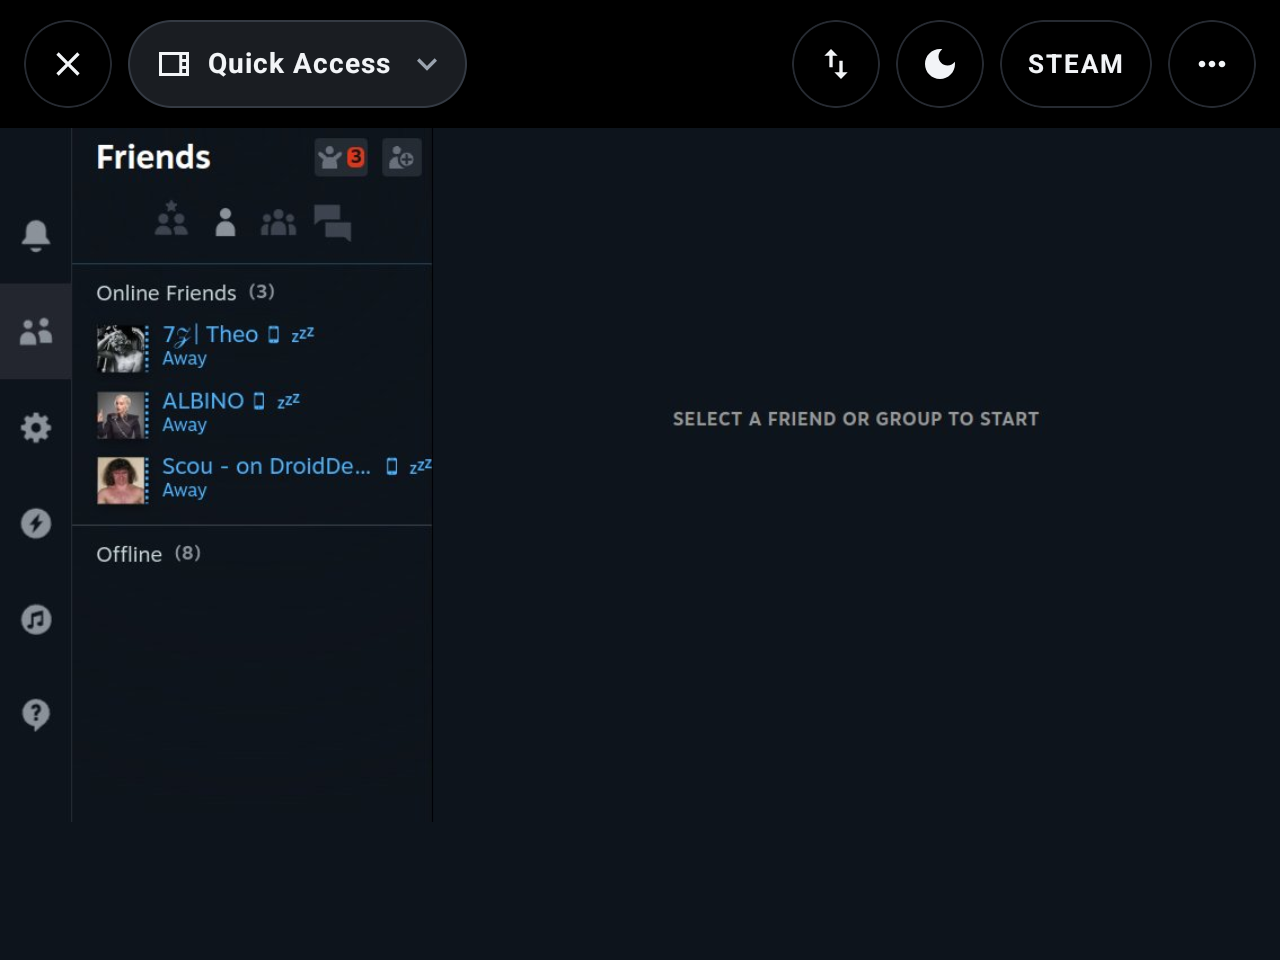
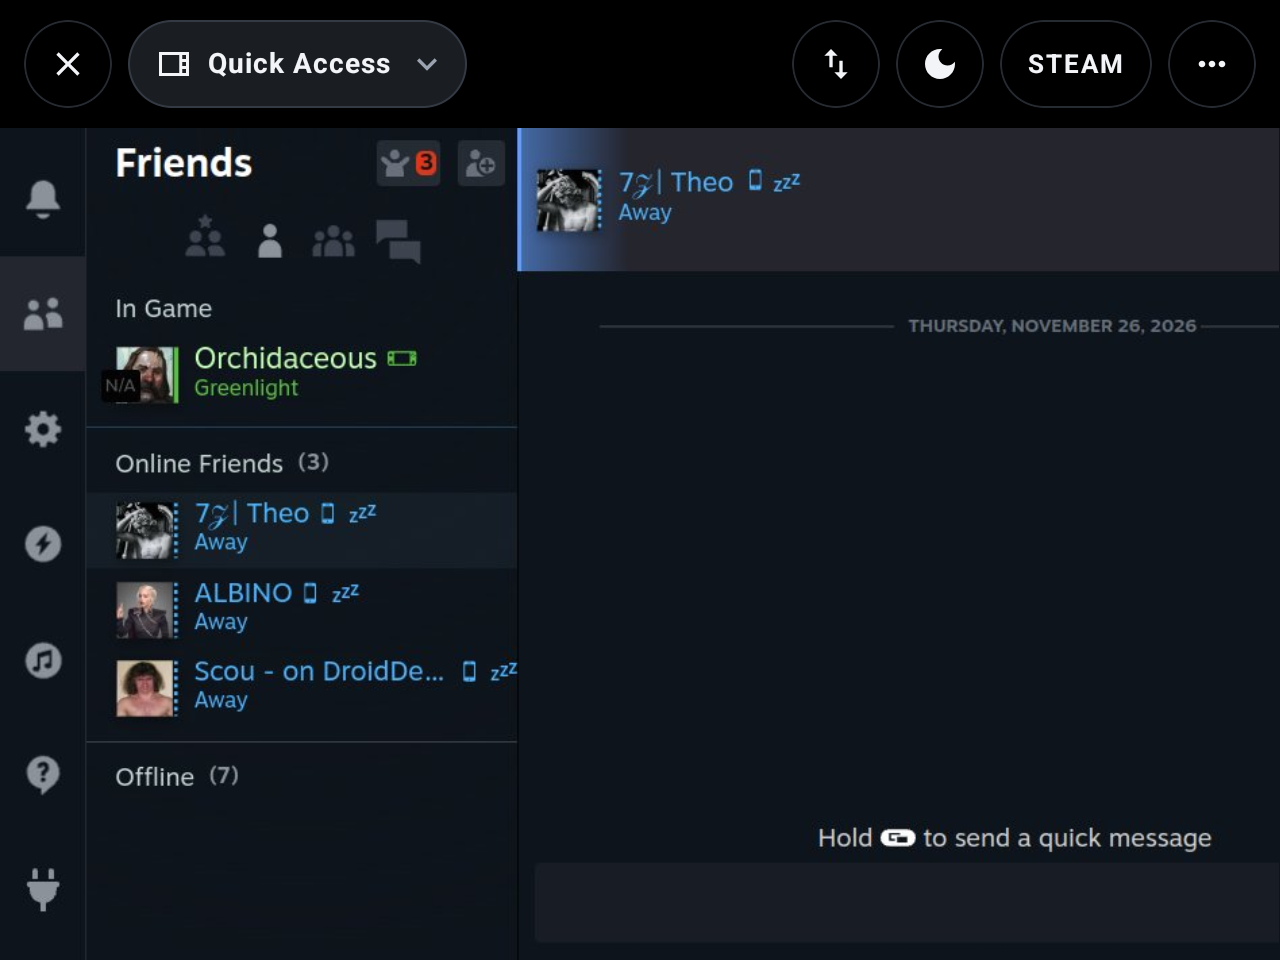
fix(bottom): lay Quick Access out at the panel's shape so every tab keeps one size

diff --git a/app/src/main/java/com/droiddeck/launcher/session/SteamQam.kt b/app/src/main/java/com/droiddeck/launcher/session/SteamQam.kt
@@ -17,7 +17,8 @@ object SteamQam {
     private const val TAG = "SteamQam"
     private const val EVAL_MS = 6_000L
 
-    internal fun script(on: Boolean): String = """(() => {
+    /** [aspect] is the panel's width over height: the menu is laid out at that shape so every tab shows at one scale. */
+    internal fun script(on: Boolean, aspect: Float = 0f): String = """(() => {
         const g = globalThis, QAM = 2;
         const W = SteamUIStore.WindowStore.SteamUIWindows[0];
         const m = W.MenuStore, c = W.m_CompositionStateStore;
@@ -25,6 +26,7 @@ object SteamQam {
         const popup = g_PopupManager.GetExistingPopup("SP BPM_uid0");
         const held = () => g.__ddQamUntil > Date.now();
         const ours = () => held() && m.m_eOpenSideMenu === QAM;
+        const width = (h) => g.__ddQamAspect > 0 ? Math.round(h * g.__ddQamAspect) : 0;
         if (!c.__ddQam) {
             c.__ddQam = c.ComputeOverallMinimumRequestedComposition;
             c.ComputeOverallMinimumRequestedComposition = function (...a) {
@@ -54,8 +56,9 @@ object SteamQam {
                 v.__ddQam = v.SetBounds;
                 v.SetBounds = function (x, y, w, h, ...r) {
                     v.__ddAsked = [x, y, w, h];
-                    if (w > 0 && ours()) x = popup.m_popup.innerWidth + 64;
+                    if (w > 0 && ours()) { x = popup.m_popup.innerWidth + 64; w = width(h) || w; }
                     v.__ddAt = x;
+                    v.__ddW = w;
                     return v.__ddQam.call(this, x, y, w, h, ...r);
                 };
             }
@@ -80,15 +83,17 @@ object SteamQam {
             for (const v of views()) {
                 if (!v.__ddAsked) {
                     const b = v.GetBounds?.();
-                    if (b && b.width > 0) { v.__ddAsked = [b.x, b.y, b.width, b.height]; v.__ddAt = b.x; }
+                    if (b && b.width > 0) { v.__ddAsked = [b.x, b.y, b.width, b.height]; v.__ddAt = b.x; v.__ddW = b.width; }
                 }
-                if (v.__ddAsked?.[2] > 0 && v.__ddAt < popup.m_popup.innerWidth) v.SetBounds(...v.__ddAsked);
+                const a = v.__ddAsked;
+                if (a?.[2] > 0 && (v.__ddAt < popup.m_popup.innerWidth || (width(a[3]) && v.__ddW !== width(a[3])))) v.SetBounds(...a);
             }
             const main = nav?.m_rgGamepadNavigationTrees?.find(t => t.m_ID === "GamepadUI_Full_Root");
             if (main && nav.m_LastActiveNavTree?.m_ID?.startsWith("QuickAccess")) nav.SetActiveNavTree(main);
             backdrop(true);
         };
         g.__ddQamUntil = ${if (on) "Date.now() + $LEASE_MS" else "0"};
+        ${if (on && aspect > 0f) "g.__ddQamAspect = $aspect;" else ""}
         keep();
         if (held() && !g.__ddQamTimer) {
             g.__ddQamTimer = setInterval(() => {
@@ -99,7 +104,7 @@ object SteamQam {
         return m.m_eOpenSideMenu;
     })()"""
 
-    fun hold(context: Context): Int? = eval(context, script(true))?.toIntOrNull()
+    fun hold(context: Context, aspect: Float): Int? = eval(context, script(true, aspect))?.toIntOrNull()
 
     fun release(context: Context, relayPort: Int) {
         eval(context, script(false))

diff --git a/app/src/main/java/com/droiddeck/launcher/ui/BottomSteamQamPanel.kt b/app/src/main/java/com/droiddeck/launcher/ui/BottomSteamQamPanel.kt
@@ -38,6 +38,7 @@ import androidx.compose.ui.graphics.asImageBitmap
 import androidx.compose.ui.graphics.vector.ImageVector
 import androidx.compose.ui.input.pointer.PointerEventType
 import androidx.compose.ui.input.pointer.pointerInput
+import androidx.compose.ui.layout.onSizeChanged
 import androidx.compose.ui.platform.LocalContext
 import androidx.compose.ui.platform.LocalDensity
 import androidx.compose.ui.platform.testTag
@@ -112,6 +113,8 @@ internal fun SteamQamPanel() {
     val holder = remember { arrayOfNulls<CdpPage>(1) }
     val relay = remember { intArrayOf(0) }
     val live = remember { java.util.concurrent.atomic.AtomicBoolean(false) }
+    val aspect = remember { floatArrayOf(0f) }
+    val measure = Modifier.fillMaxSize().onSizeChanged { if (it.height > 0) aspect[0] = it.width.toFloat() / it.height }
     val show = { frame: ImageBitmap -> image = frame; QamCache.image = frame; live.set(true) }
     DisposableEffect(Unit) {
         onDispose {
@@ -133,7 +136,11 @@ internal fun SteamQamPanel() {
                     delay(FAST_TICK_MS)
                     continue
                 }
-                val open = SteamQam.hold(context)
+                if (aspect[0] == 0f) {
+                    delay(FAST_TICK_MS)
+                    continue
+                }
+                val open = SteamQam.hold(context, aspect[0])
                 failed = open == null
                 if (open == SteamQam.QUICK_ACCESS) {
                     var page = holder[0]
@@ -179,10 +186,12 @@ internal fun SteamQamPanel() {
         if (img != null && l != null && l[0] > 0f) QamFrame(img, l[0], l[1], l[3].coerceIn(l[0] * 0.25f, l[0])) else null
     }
     if (f == null) {
-        if (slow) PanelNote(stringResource(if (failed) R.string.bottom_qam_unavailable else R.string.achievements_reading))
+        Box(measure) {
+            if (slow) PanelNote(stringResource(if (failed) R.string.bottom_qam_unavailable else R.string.achievements_reading))
+        }
         return
     }
-    BoxWithConstraints(Modifier.fillMaxSize().background(f.fill)) {
+    BoxWithConstraints(measure.background(f.fill)) {
         val density = LocalDensity.current
         val boxW = with(density) { maxWidth.toPx() }
         val boxH = with(density) { maxHeight.toPx() }

diff --git a/app/src/test/java/com/droiddeck/launcher/session/SteamQamTest.kt b/app/src/test/java/com/droiddeck/launcher/session/SteamQamTest.kt
@@ -2,6 +2,7 @@ package com.droiddeck.launcher.session
 
 import com.droiddeck.launcher.ui.QamLayout
 import org.junit.Assert.assertEquals
+import org.junit.Assert.assertFalse
 import org.junit.Assert.assertNull
 import org.junit.Assert.assertTrue
 import org.junit.Test
@@ -38,10 +39,16 @@ class SteamQamTest {
         assertTrue(SteamQam.script(false).contains("g.__ddQamUntil = 0;"))
     }
 
+    @Test fun theMenuIsLaidOutAtThePanelsShapeOnlyWhileHeld() {
+        assertTrue(SteamQam.script(true, 1.5f).contains("g.__ddQamAspect = 1.5;"))
+        assertFalse(SteamQam.script(true).contains("g.__ddQamAspect ="))
+        assertFalse(SteamQam.script(false, 1.5f).contains("g.__ddQamAspect ="))
+    }
+
     @Test fun whileHeldTheMenuStaysOffTheTopScreenAndOutOfTheGamesWay() {
         val script = SteamQam.script(true)
         assertTrue(script.contains("return v === 2 && ours() ? 1 : v;"))
-        assertTrue(script.contains("if (w > 0 && ours()) x = popup.m_popup.innerWidth + 64;"))
+        assertTrue(script.contains("if (w > 0 && ours()) { x = popup.m_popup.innerWidth + 64; w = width(h) || w; }"))
         assertTrue(script.contains("nav.m_LastActiveNavTree?.m_ID?.startsWith(\"QuickAccess\")"))
         assertTrue(script.contains("if (m.m_eOpenSideMenu === QAM) m.CloseSideMenus();"))
     }

diff --git a/docs/development/bottom-screen.md b/docs/development/bottom-screen.md
@@ -170,7 +170,7 @@ Details: [bottom-screen-companion-api.md](bottom-screen-companion-api.md).
 Plugin loaders expose Steam's CEF DevTools so the menu can be viewed in a desktop browser, but it renders only while it is open on the main screen. The panel keeps it open without covering the top screen:
 
 - Steam's UI is told to open the menu and keep it open: its composition request is capped at "notification" while the menu is ours, so gamescope keeps focus on the game, and losing focus no longer closes it. Gamepad focus moves from the menu back to the main UI only when the menu took it, so Steam's own popups keep the controller. The blurred backdrop is hidden.
-- The menu's browser view is placed just outside the Big Picture window through its own `SetBounds`, so it keeps rendering but never shows on top, including while Steam slides it wider for Friends and chat.
+- The menu's browser view is placed just outside the Big Picture window through its own `SetBounds`, so it keeps rendering but never shows on top, including while Steam slides it wider for Friends and chat. The view is also given the panel's shape (about 712 × 463 instead of Steam's 856 × 463), so every tab shows at the same scale: Friends uses its compact list until a chat is opened, and the list with the chat then fills the panel.
 - A timer inside Steam keeps this state every 250 ms, so the menu comes back, on the tab it was showing, as soon as Steam's main menu or a full-screen page such as Decky's store closes. It runs on a 5 s lease that the panel renews each second: if the app stops, Steam returns to normal by itself.
 - The hold starts only once the session is ready: holding the menu before Steam's first frame kept gamescope from presenting anything.
 - `droiddeck-qam-relay` relays the app to the DevTools port, which only answers clients inside the guest. The panel streams the menu with `Page.startScreencast`, scales its content to the panel and fills the rest with the menu's own background, and forwards touches on the menu with `Input.dispatchTouchEvent`. When the menu is narrower than the panel, a chevron in the free space on each side steps it left, centre or right; the choice is kept. Returning to the panel shows the last frame at once while the stream reconnects, and the first frame after a cold start takes about 1.4 s.
